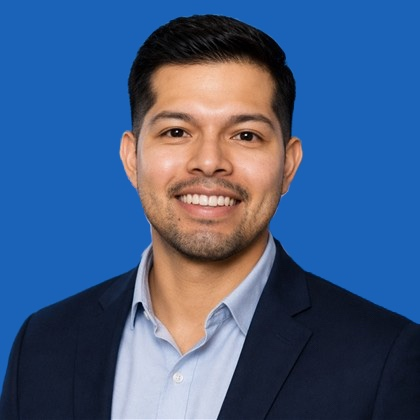
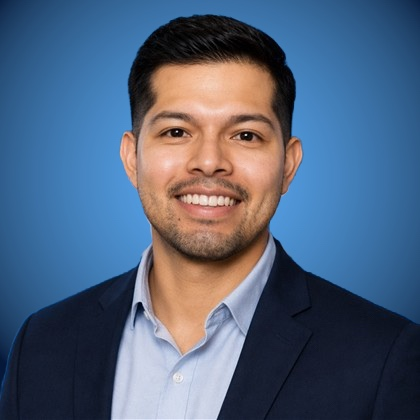
Headshot: blue halo background

diff --git a/index.html b/index.html
@@ -54,7 +54,7 @@
             <a href="https://github.com/ericvdzc">GitHub</a>
           </p>
         </div>
-        <img class="headshot" src="assets/eric-verduzco.jpg" alt="Eric Verduzco" width="260" height="260">
+        <img class="headshot" src="assets/eric-verduzco.jpg?v=2" alt="Eric Verduzco" width="260" height="260">
       </div>
     </div>
   </section>
